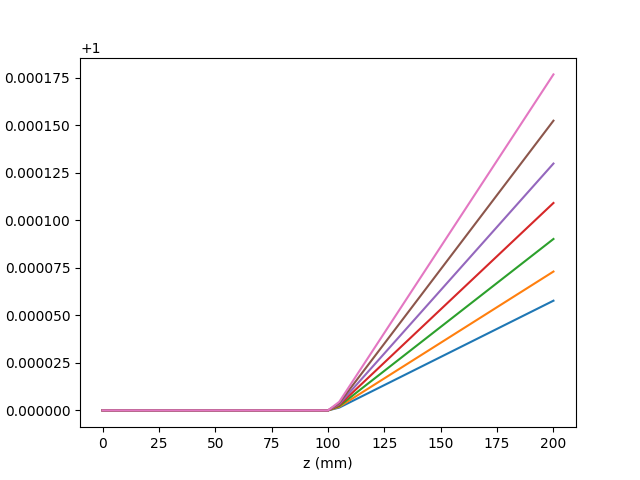
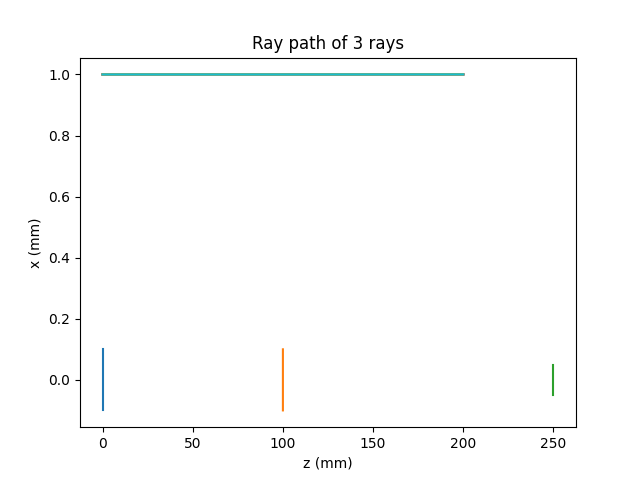
fixing the tests not finished yet (task 11 plot looks horrifying)

diff --git a/raytracer/elements.py b/raytracer/elements.py
@@ -12,8 +12,44 @@ class OpticalElement:
                 #tests hwo the ray propogates in the optical object and update the ray's internal characteristics such as poisiton and direction
                 raise NotImplementedError('propagate_ray() needs to be implemented in derived classes')
         
+class Surface(OpticalElement):
+        def intercept(self, ray): #where the ray intercepts the spherical surface
+                direc = ray.direc()
+                pos = ray.pos()
+                curv = self.curvature()
+                if curv == 0:
+                        z_init = ray.pos()[2]
+                        z_direc = ray.direc()[2]
+                        if z_direc == 0: #if the ray is moving parallel to the plane
+                                return None
+                        l = (self.z_0() - z_init) / z_direc #distance travelled in ray direction before ray hits the plane
+                        if l < 0: # if the surface is behind the ray
+                                return None
+                        return pos + l * direc #position where the ray hits the plane
+                rad = 1 / curv #since the unit of curvature is mm-1, radius is inverse
+                z0 = self.z_0()
+                centre = np.array([0, 0, z0 + rad]) #centre of sphere is calculated by adding where surface crosses the z-axis and the radius of the sphere
+                r = pos - centre #position of ray relative to the sphere centre
+                dot_1 = np.dot(r, direc)
+                disc = dot_1 * dot_1 - (np.dot(r, r) - rad * rad)
+                if disc < 0:
+                        return None #no real solutions to quad formula exists for negative discriminant
+                l1 = - dot_1 + np.sqrt(disc)
+                l2 = - dot_1 - np.sqrt(disc)
+                valid = [] 
+                for l in [l1, l2]:
+                        if l > 0: #ray travelling forward
+                                point = pos + l * direc #where the ray strikes the physical surface
+                                radial_distance = np.sqrt(point[0]**2 + point[1]**2) #Pythagoras' theorem
+                                if radial_distance <= self.aperture(): #if the ray hits the spherical point beyond the space aperture is filling
+                                        valid.append(point)
+                if len(valid) == 0:
+                        return None #if there are no valid points for both roots
+                intercept_pos = min(valid, key = lambda point: np.dot(point - pos, direc)) #if both roots are valid, detecting the ray that hits the surface first
 
-class SphericalRefraction(OpticalElement):
+                return intercept_pos
+
+class SphericalRefraction(Surface):
         def __init__(self, z_0 = 0., aperture = 0., curvature = 0., n_1 = 0., n_2 = 0.):
                 self.__z0 = z_0
                 #where surface intercepts optical axis (z-axis)
@@ -39,41 +75,7 @@ class SphericalRefraction(OpticalElement):
                         return self.__n2
                 return self.__n2.ref_index(wavelength)
         
-        def intercept(self, ray): #where the ray intercepts the spherical surface
-                direc = ray.direc()
-                pos = ray.pos()
-                curv = self.curvature()
-                if curv == 0:
-                        z_init = ray.pos()[2]
-                        z_direc = ray.direc()[2]
-                        if z_direc == 0: #if the ray is moving parallel to the plane
-                                return None
-                        l = (self.__z0 - z_init) / z_direc #distance travelled in ray direction before ray hits the plane
-                        if l < 0: # if the surface is behind the ray
-                                return None
-                        return pos + l * direc #position where the ray hits the plane
-                rad = 1 / curv #since the unit of curvature is mm-1, radius is inverse
-                z0 = self.z_0()
-                centre = np.array([0, 0, z0 + rad]) #centre of sphere is calculated by adding where surface crosses the z-axis and the radius of the sphere
-                r = pos - centre #position of ray relative to the sphere centre
-                dot_1 = np.dot(r, direc)
-                disc = dot_1 * dot_1 - (np.dot(r, r) - rad * rad)
-                if disc < 0:
-                        return None #no real solutions to quad formula exists for negative discriminant
-                l1 = - dot_1 + np.sqrt(disc)
-                l2 = - dot_1 - np.sqrt(disc)
-                valid = [] 
-                for l in [l1, l2]:
-                        if l > 0: #ray travelling forward
-                                point = pos + l * direc #where the ray strikes the physical surface
-                                radial_distance = np.sqrt(point[0]**2 + point[1]**2) #Pythagoras' theorem
-                                if radial_distance <= self.__aperture: #if the ray hits the spherical point beyond the space aperture is filling
-                                        valid.append(point)
-                if len(valid) == 0:
-                        return None #if there are no valid points for both roots
-                intercept_pos = min(valid, key = lambda point: np.dot(point - pos, direc)) #if both roots are valid, detecting the ray that hits the surface first
 
-                return intercept_pos
         
         def propagate_ray(self, ray): #trace the ray until intercept
                 direc = ray.direc()
@@ -103,7 +105,7 @@ class SphericalRefraction(OpticalElement):
                 ray.append(new_pos, new_direc)
                 return ray
                 
-        def focal_point(self, wavelength): #calculating the focal point of a refracting spherical surface
+        def focal_point(self, wavelength = None): #calculating the focal point of a refracting spherical surface
                 n1 = self.n_1(wavelength)
                 n2 = self.n_2(wavelength)
                 rad = 1 / self.curvature()
@@ -111,12 +113,9 @@ class SphericalRefraction(OpticalElement):
                 z0 = self.z_0()
                 return focal_point + z0
 
-class OutputPlane(OpticalElement):
-        def __init__(self, z_0):
-                self.__z0 = z_0
-        
+class Plane(OpticalElement):
         def intercept(self, ray):
-                z_0 = self.__z0 #where the plane is in z-direction
+                z_0 = self.z_0() #where the plane is in z-direction
                 z_init = ray.pos()[2]
                 z_direc = ray.direc()[2]
                 if z_direc == 0: #if the ray is moving parallel to the plane
@@ -128,6 +127,13 @@ class OutputPlane(OpticalElement):
                 pos = ray.pos()
                 intercept_pos = pos + l * direc
                 return intercept_pos
+
+class OutputPlane(Plane):
+        def __init__(self, z_0):
+                self.__z0 = z_0
+        
+        def z_0(self):
+                return self.__z0
         
         def propagate_ray(self, ray):
                 new_pos = self.intercept(ray)
@@ -163,7 +169,7 @@ class SphericalReflection(SphericalRefraction): #since reflection class has exac
                         return None
                 ray.append(new_pos, new_direc)
                 return ray
-        def focal_point(self):
+        def focal_point(self, wavelength = None):
                 curv = self.curvature()
                 rad = 1 / curv
                 focal_point = rad / 2 #focal point equation for spherical mirrors

diff --git a/raytracer/rays.py b/raytracer/rays.py
@@ -1,3 +1,4 @@
+"""Module containint Ray and RayBundle classes"""
 import numpy as np
 #from raytracer.elements import OpticalElement
 import matplotlib.pyplot as plt
@@ -5,11 +6,25 @@ import matplotlib.pyplot as plt
 
 class Ray:
     def __init__(self, pos = np.array([0, 0, 0]), direc = np.array([0, 0, 1]), wavelength = 588e-9):
-        self.__pos = pos #the current position of the ray / a point in space
-        self.__direc = direc #the current direction of the ray
+        self.__pos =self._check_vector(pos) #the current position of the ray / a point in space
+        self.__direc = self._normalise(self._check_vector(direc)) #the current direction of the ray
         self.__vertices = [self.__pos] #all the points (positions) the ray passes through
         self.__wavelength = wavelength
         #brackets to create a list out of array
+    #check if position and direction are vectors or not
+    def _check_vector(self, vec):
+        if not isinstance(vec, (list, np.ndarray)):
+            raise Exception("Vector must be a list or a numpy array")
+        arr = np.array(vec, dtype = float)
+        if arr.shape !=(3,):
+            raise Exception("Vector must have length 3")
+        return arr
+    
+    def _normalise(self, vec):
+        norm = np.linalg.norm(vec)
+        if norm == 0:
+            raise Exception("Direction vector cannot be zero")
+        return vec / norm
     #access methods
     def pos(self):
         return self.__pos
@@ -19,8 +34,8 @@ class Ray:
         return self.__wavelength
     def append(self, pos, direc):
         #adding new points along the ray in 3D
-        self.__pos = np.array(pos)
-        self.__direc = np.array(direc)
+        self.__pos = self._check_vector(pos)
+        self.__direc = self._normalise(self._check_vector(direc))
         self.__vertices.append(self.__pos)
         return self
     def vertices(self):
@@ -37,7 +52,7 @@ class Ray:
         z = pos[2] + l * direc[2]
         return z
 
-class RayBundle(Ray):
+class RayBundle:
     def __init__(self, rmax = 5., nrings = 5., multi = 6): #ray bundle is a circular light beam
         self.__rmax = rmax
         self.__nrings = nrings
@@ -45,6 +60,7 @@ class RayBundle(Ray):
         self.__rays = []
 
         #we NEED to add the CENTRAL RING
+        self.__rays.append(Ray(np.array([0., 0., 0.]), np.array([0., 0., 1.])))
         for iring in range(1, int(nrings)+1): #0th ring doesn't make sense so range starts from 1
             radius = iring * rmax / nrings
             npoints = iring * multi
@@ -54,6 +70,7 @@ class RayBundle(Ray):
                 y = np.sin(theta) * radius
                 ray = Ray(np.array([x , y , 0]), np.array([0, 0, 1])) #direction is along optical axis and z start position is 0
                 self.__rays.append(ray) #create a ray list of spherical coordinates
+        
 
     def rays(self):
         return self.__rays

diff --git a/raytracer/analysis.py b/raytracer/analysis.py
@@ -96,17 +96,20 @@ def task11():
 
     screen = OutputPlane(250)
 
+    z = []
+    y = []
+
     for i in rays:
         surface.propagate_ray(i)
         screen.propagate_ray(i)
         vertices = i.vertices()
-        z = [point[2] for point in vertices] #plot z-direction the direction of ray travel on x-axis in the plot
-        y = [point[1] for point in vertices]
-        plt.plot(z, y)
-        print(surface.focal_point())
-        #NEEDS TO RETURN TUPLE!!
+        z.append([point[2] for point in vertices]) #plot z-direction the direction of ray travel on x-axis in the plot
+        y.append([point[1] for point in vertices])
+    
+    plt.plot(z, y)
+    plt.title("Ray path of 3 rays")
 
-    return
+    return plt.gcf(), surface.focal_point()
 
 
 @SaveOutput("task12")
@@ -490,7 +493,7 @@ if __name__ == "__main__":
 
     # Run task 11 function
     #task11()
-    #FIG11, FOCAL_POINT = task11()
+    FIG11, FOCAL_POINT = task11()
 
     # Run task 12 function
     #FIG12 = task12()

diff --git a/raytracer/physics.py b/raytracer/physics.py
@@ -1,10 +1,12 @@
 import numpy as np
 
 def refract(direc, normal, n_1, n_2): #assuming that incident and transmitted rays are normalized
+    direc = np.array(direc, dtype = float)
+    normal = np.array(normal, dtype = float)
     sin_1 = np.linalg.norm(np.cross(direc, normal)) #incident angle from normal and direction of incident ray
     cos_1 = -np.dot(direc, normal)
     eta = n_1 / n_2
-    if sin_1 > 1/eta:
+    if eta > 1 and sin_1 > 1/eta:
         return None #total internal reflection
     direc_refract = eta * direc + (eta * cos_1 - np.sqrt(1 - eta * eta * sin_1 * sin_1)) * normal
     norm_direc_r = direc_refract / np.linalg.norm(direc_refract)

diff --git a/raytracer/genpolar.py b/raytracer/genpolar.py
@@ -1,0 +1,12 @@
+import numpy as np
+
+def rtrings(rmax=5., nrings=5, multi=6):
+    yield 0., 0.
+
+    for iring in range(1, nrings + 1):
+        radius = iring * rmax / nrings #max radius / number of rings gives the spacing between the riings
+        npoints = iring * multi #number of points on each ring
+
+        for ipoint in range(npoints):
+            theta = 2 * np.pi * ipoint / npoints #location of ipoint in all points along the ring fraction times 2pi gives the angle
+            yield radius, theta

diff --git a/raytracer/lenses.py b/raytracer/lenses.py
@@ -27,7 +27,10 @@ class PlanoConvex:
         z_focus = pos[2] + l * direc[2] #returns the z poisiton of the focal length
 
         return z_focus
-            
+    
+class ConvexPlano(OpticalElement):
+     pass
+
 class BiConvex:
     def __init__(self, z_0 = 100, curvature1 = 0.02, curvature2 = -0.02, n_inside = 1.5168, n_outside = 1., thickness = 5., aperture = 50.):
             self.__z_0 = z_0
